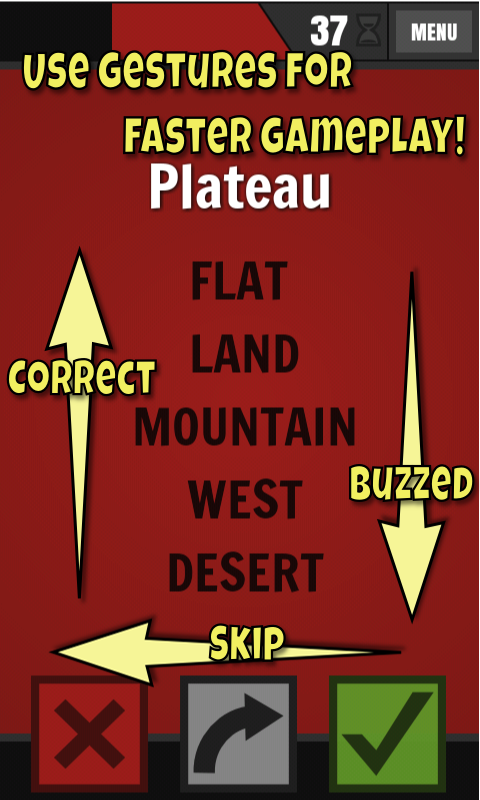
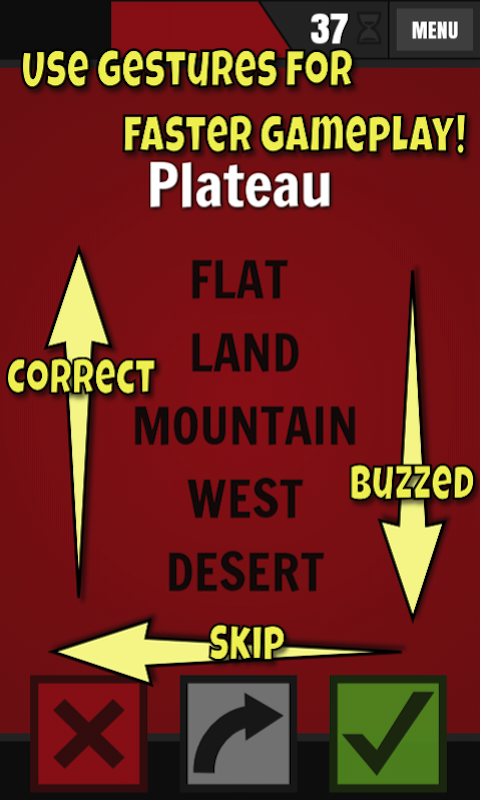
Added Google Play badge on Buzzwords page and fixed a screenshot.

diff --git a/apps/buzzwords.html b/apps/buzzwords.html
@@ -17,6 +17,12 @@ group: navigation
         <li><a href="#bw-faq">FAQ</a></li>
         <li><a href="#bw-opensource">Open Source</a></li>
       </ul>
+      <div class="badge play-badge affix">
+        <a href="https://play.google.com/store/apps/details?id=com.buzzwords">
+          <img alt="Get it on Google Play"
+               src="https://developer.android.com/images/brand/en_generic_rgb_wo_45.png" />
+        </a>
+      </div>
     </div>
 
     <div class="span6" >

diff --git a/assets/css/style.css b/assets/css/style.css
@@ -65,7 +65,10 @@ footer {
 /* buzzwords subnav ================================================ */
 @media (max-width: 767px) {
   .bw-sidenav {
-    display:none;
+    display: none;
+  }
+  .play-badge {
+    display: none;
   }
 }
 
@@ -102,6 +105,11 @@ footer {
 
 .bw-sidenav>li:last-of-type a {
   border-bottom: 5px solid #244e26;
+}
+
+.play-badge {
+  margin-top: 180px;
+  padding: 0;
 }
 
 /* carousel ======================================================== */
